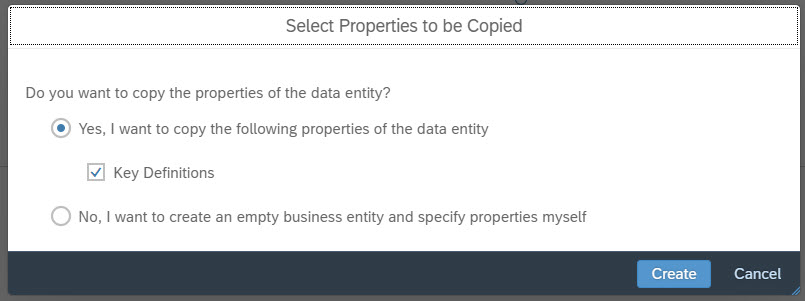
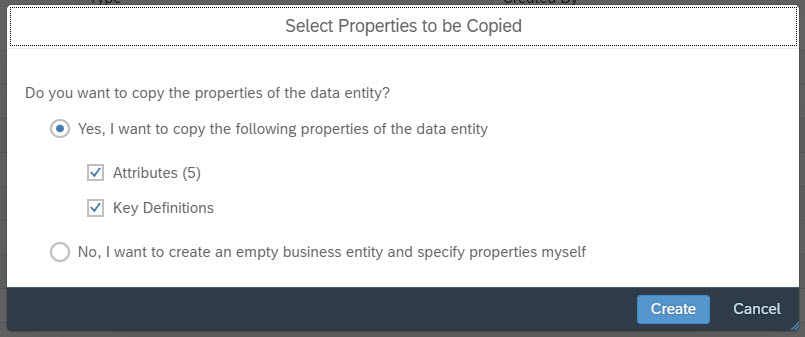
product dim + images

diff --git a/exercises/ex2/README.md b/exercises/ex2/README.md
@@ -57,7 +57,7 @@ Check the data preview panel that these records are indeed filtered out
 13. Now let's do final adjustments on the last node. For once, choose the final node and select column *Time*. Select the three dots to open its context menu. Choose the menu entry *Set as key* to make time a key column of the view. <br> ![set as key](images/set_key.jpg)
 14. Also turn *model* and *marke* (German for "brand") into key columns.
 
-15. In the properties panel of the final node, change drop-down for Semantic Usage to *Analytical Dataset*. This turns the current view into a multi-dimensional artefact that can be consumed directly by SAP Analytics Cloud. In order to fully configure the artefact, drag & drop columns *all*, *bev* and *cabriolet* to section *Measures*
+15. In the properties panel of the final node, change drop-down for Semantic Usage to *Analytical Dataset* and toggle *Expose for consumption* to ON. This turns the current view into a multi-dimensional artefact that can be consumed directly by SAP Analytics Cloud. In order to fully configure the artefact, drag & drop columns *all*, *bev* and *cabriolet* to section *Measures*
 <br> ![ADS settings](images/view_ads_settings.jpg)
 12. Choose *Save* in the action bar. <br> ![save button](images/save_button.jpg)
 13. In the prompt, set technical and business name to *V_GERMAN_CAR_REGISTRATION*. <br> ![Save as](images/Save_view.JPG)
@@ -80,7 +80,7 @@ The configuration of a *pairing column* ensures that the product ID that was ide
 
  4.	Define a first rule to create initial mappings.  
  Intelligent Lookup differentiates between exact match rules and fuzzy match rules. Exact match rules work roughly like a join and make exact comparisons of field names. Unlike standard joins, they can be graceful about upper-lower case spellings though (advanced setting).  
- Select the rule node and check its detail panel. Via drag & drop, make a mapping between the model column of the input view (car registrations) and the model column of lookup view (product master). Likewise, make a mapping between the column *marke* (German for *brand*) of input view and the column *brand* of lookup view.  
+ Select the rule node and check its detail panel. Via drag & drop, make a mapping between the model column of the input view (car registrations) and the Model_Name column of lookup view (product master). Likewise, make a mapping between the column *marke* (German for *brand*) of input view and the column *brand* of lookup view.  
  In section *Advanced Settings*, uncheck *Case-sensitive*.  
  Through this configuration, you are telling Intelligent Lookup to lookup the respective product master for each record of the car registration by doing a case-insensitive comparision of model and brand fields. In the best of cases, only a single lookup record matches this criterion. Then the match is made, stored & reused for every record in the car registration dataset with the same value of *ModelBrand*. That means also across e.g. car registrations for different points in time, for the same model & brand combination. If more than one lookup record is found, the system will classify this as multiple match. If no lookup record can be found with this rule, the system will classify the record as unmatched. 
  <br> ![Configure first IL rule](images/il_configure_exact_rule.jpg)
@@ -93,16 +93,20 @@ The configuration of a *pairing column* ensures that the product ID that was ide
 7. Once deployment is done (which can take 1-2 minutes), run the operator.
 <br> ![Run Intelligent Lookup](images/il_run.jpg)
 8. Once the run is successful (which again can take 30sec to one minute), start inspecting the results. 
-The first thing to realize is that out of all 373 records of the car registration view, 48% could be matched successfully with this rule while 52% couldn't.
+The first thing to realize is that out of all 321 records of the car registration view, 56% could be matched successfully with this rule while 44% couldn't.
 <br> ![IL run result](images/il_run_result_rule_1.jpg)
 9. To inspect the results in more detail, open the data preview of the rule and inspect the "buckets" for matched & unmatched records of the car registration dataset. Let's first inspect the matched records by opening the preview via the context pad of the rule and choosing the matched tab.   
 **Note: at the time of writing of the document, the matched bucket has an irregularly occuring display bug on the matched tab of the data preview. It is expected to be fixed in time for the Teched hands-on session**.
 When inspecting the results in detail, you realize that Intelligent Lookup did what your standard join would not be able to do: join over columns in a case-insensitive way. In the marked line, the rule identified POLESTAR/1 as being the same as Polestar/1 and thus "matched" the car registration of that model to the respective product master record (Product Id = 1055).
 <br> ![IL match results rule #1](images/il_rule1_matched.jpg)
-10. Now let's move on to the unmatched records, i.e. those car registration records where the rule couldn't quite figure out which product they belong to in the lookup view. Let's e.g. zoom in on the set of records for *ModelBrand* value A1 S1 AUDI. There is one record for registration date 2022-01-01, but there could be many dates in the same group. Why couldn't the rule find which product the records in the group belong to? When we filter the lookup table on brand = AUDI (just use the column header for this), we immediately see why: the record circuled in red has indeed brand = AUDI, but the model is *A1*. So when our rule says to find a lookup record by doing a case-insensitive comparison of model and brand, then none of the products in our product view does quite pass this test. 
+10. Now let's move on to the unmatched records, i.e. those car registration records where the rule couldn't quite figure out which product they belong to in the lookup view. Let's e.g. zoom in on the set of records for *ModelBrand* value A1 S1 AUDI.  
+We first set a filter on the product master by clicking on the column header and setting a filter value
+<br> ![set filter audi](images/il_rule1_unmatched_filter_audi.jpg)
+
+11. When we now look at the car registration data on the left and the filter product master for *AUDI* on the right, we directly realize what is wrong: the record circuled in red has indeed brand = AUDI, but our product master only knows model *A1*, but the car registrations happened on Audi's model A1 S1. Only domain experts can decide, if this indeed is the same product or not.  
 <br> ![IL unmatched records](images/il_run_result_rule_1_unmatched.jpg)
 
-11. Intelligent Lookup allows business users now to take a decision here. Mark both entries and click the *Match* button. This will tell the system that the two records are indeed meaning the same model and transfer the record to the *Matched* tab. 
+12. Intelligent Lookup allows business users now to take a decision here. Mark both entries and click the *Match* button. This will tell the system that the two records are indeed meaning the same model and transfer the record to the *Matched* tab. 
 <br> ![IL Manual Match Audi A1](images/il_manual_match_audi_a1.JPG)
 12. Since we don't want to take all these manual decisions one by one, we choose to simplify our life and automate the decision making. To that end, our best bet is to be a bit more relaxed about our matching rule logic and do a fuzzy comparison of the model & brand fields. Intelligent Lookup allows to do this by creating a follow-up rule. So let's add such a follow-up rule by clicking the first rule and selecting *Add rule for Unmatched Records* from the context pad.
 <br> ![IL add unmatched rule](images/il_add_rule_for_unmatched.jpg)
@@ -112,22 +116,26 @@ When inspecting the results in detail, you realize that Intelligent Lookup did w
 <br> ![Deploy IL](images/il_deploy.jpg)
 14. Once deployed, start a new run.
 <br> ![Run IL](images/il_run.jpg)
-15. Now let's inspect the results. The new rule finds another 12% of records that the rule deems worth reviewing (i.e. the fuzzy match metric came out at >80% and <100%), together with 3% multiple matches and still 37% unmatched records.
+15. Now let's inspect the results. The new rule takes those 44% of car registration records that the first rule couldn't make heads or tails of and triages them into distinct buckets: 
+- 0% were identifed with such certainty that no human intervention is required ("matched")
+- 13% of the records are matched such that that the rule is pretty sure, but suggests a human review (i.e. the fuzzy match metric came out at >80% and <100%)
+- 3% are "multiple matches" where more than one lookup record was found and a domain expert needs to make a final call 
+- 27% of the records can still not be matched .
 <br> ![IL run results rule 2](images/IL_run_result_rule_2.jpg)
 16. Let's use the data preview again to better understand what's happening here. Let's first turn to what Intelligent Lookup calls "Review" records. These are records where the fuzzy rule could indeed find single matches in the 80% to 100% fuzzy metric bracket, but since they are not 100%, a human user should review their validity.  
 If you look closely at the values, the rule could successfuly match MERCEDES/GLS to Mercedes Benz/GLS as well as SKODA/ENYAK to Škoda Auto/ENYAK. This is exactly what we were hoping for and we can thus select those lines and click *Confirm* to push them over to the *Matched* bucket.
 <br> ![IL fuzzy result review](images/il_fuzzy_rule_result_review.jpg)
-17. If we continue on to the multiple matches, we find a some interesting artefacts in the data. For example, MERCEDES/GLA fuzzily matches to all three product master records on the right and it's up to the business user to make a call which one it is. This is still manual work, but by triaging the irrelevant product master records from the highly relevant ones, the domain expert receives a huge support boost by the system.
+17. If we continue on to the multiple matches, we find a some interesting artefacts in the data. For example, MERCEDES/A-KLASSE fuzzily matches to all Mercedes-Benz models on the right. While Mercedes-Benz/A-KLASSE has the highest fuzzy score, the other models like B-KLASSE and C-KLASSE are fuzzily too similar for a machine intelligence to take a final decision. Users can select the respective entries and choose to manually take the decision. This is still manual work, but by triaging the irrelevant product master records from the highly relevant ones, the domain expert receives a huge support boost by the system.
 <br> ![IL multiple match result fuzzy](images/il_fuzzy_rule_result_multiple.jpg)
 18. Finally there are still some unmatched cases in the data, so let's turn to them now. Evidently, none of the lines could be matched through those two rules, but why is this? If we work ourselves through the data a bit we realize different root causes: 
-- Brand PORSCHE is not in our product master, because our fleet management service has no use of Porsche cars. As a result, the car registrations on PORSCHE cannot be matched.
-- Brand ALFA ROMEO does exist in our product master with model entries for GIULIA and STELVIO, but the car registrations only have a catch-all entry *All models* for them. We need to take a business decision what to match them to. We might e.g. consider adding a catch-all entry for unknown models or unknown makes in our product master and match the car registration to those, filter those registrations out or whatever. Again, this is a business decision on the side of the domain expert.
-- Similar reasons apply for the remaining entries: ALPINE again is no known brand, same for LYNK & CO, SUZUKI; for FIAT, HONDA and some of the other brands, they do exist in the product master, but car registration numbers are for *All models* so someone needs to decide how to proceed.  
+- Car registrations on many up-market brands like PORSCHE, JAGURA, CADILLAC, TESLA, FERRARI, LAMBORGHINI, MASERATI and LEXUS remain unmatched because there is simply no product master for them. How could there be, since our business is about fleet management, not luxury car rental. A domain expert needs to choose to either filter them out or to match them to a new "luxury model" that could be added to the product master. Again, this is entirely a business decision by a domain expert.
+- And then there are car registrations listed like MERCEDES/SONSTIGE or Volkswagen VW/SONSTIGE. "Sonstige" is German for "others", meaning that the data source couldn't quite assign them to any of **their** product master entries and thus subsumed them under a catch-all term "others". Again, obviously this does not allow for a matching to our product master for purely business & data reasons that subject matter experts need to decide how to deal with 
 <br> ![IL fuzzy unmatched results](images/il_fuzzy_rule_result_unmatched.jpg)
 19. Let's finally turn to the output of the Intelligent Lookup, so let's click on the right-most node in the canvas. In the details pane, you can apply some settings like include/exclude of records that are in review or unmatched status. We can set default values, when no *Product Id* could be identified (click the three dots to the right of column *Product Id*) in which case it would make sense to include an *Unmatched Record* column to distinguish default product id values from real ones that might happen to have the same value. 
-When we look at the data preview, we find the same 373 car registration records as in the input view *V_GERMAN_CAR_REGISTRATION*, but now we have "looked up" for which Product Id they are and added that as an own column. This additional information will come in handy when we do our analyses for those models  later in the procss.   
-Technically, the Intelligent Lookup is just a join of those two tables, but with a hidden helper table in the background to identify which Ids used in the car registration data set match to which ids of the product master. 
+When we look at the data preview, we find the same 321 car registration records as in the input view *V_GERMAN_CAR_REGISTRATION*, but now we have "looked up" for which *Product Id* they are and added that as an own column. This additional information will come in handy when we do our analyses for those models  later in the process.   
+Technically, the Intelligent Lookup is just a join of those two tables, but with a hidden helper table in the background to identify which Ids used in the car registration data set match to which ids of the product master. This means that even though it does quite some magic, it can still be consumed like any ordinary view for modelling or reporting. 
 <br> ![IL output node](images/il_output_view.jpg)
+
 ## Summary
 
 You've now identified for the car registration data which product master record they belong to. This will become important in the next exercise since now both the internal data (*RT_MY_COMPANY_SALES*) and the external data about car registrations now leverage the same product master. In the next exercise, we'll build a multi-fact model that leverages this shared product dimension, thus allowing both data sets to be analyzed along the same dimension for drill-down. 

diff --git a/exercises/ex3/README.md b/exercises/ex3/README.md
@@ -15,13 +15,13 @@ Car registration data and sales data both contain facts about the same entity, n
 <br> ![open bus builder](images/open_biz_builder.jpg)
 2. Click on “New Dimension”. Choose *V_MY_COMPANY_PRODUCT* as data entity and set its business name to *DIM_MY_COMPANY_PRODUCT*. The technical name will be auto-adjusted to *BE_DIM_MY_COMPANY_PRODUCT*. 
 <br> ![Wizard - Data Entity](images/dim_wizard_data_entity.jpg)
-3. Confirm take over the key definitions from the underlying view *V_MY_COMPANY_PRODUCT*. 
+3. Confirm take over all attributes & key definitions from the underlying view *V_MY_COMPANY_PRODUCT* and choose *Create*. 
 <br> ![Dim Wizard - take over props and keys](images/dim_wizard_copy_props.jpg)
-Find dimensionChoose the product view Dimension you created in the Data Builder as a Data entity. Choose your Business Name and Technical Name. Click “next”. <br> ![Test](/exercises/ex3/images/6.png) ![Test](/exercises/ex3/images/7.png)
-3. In the next dialog choose “yes” and copy the properties. Click ”next”.
-4. Choose the "Attributes" sheet. Delete the "id" column from your attributes by clicking the "x" behind the entry. <br> ![Test](/exercises/ex3/images/8.png) <br> Now you have created a dimension to use in the SAC. You can filter by all the attributes you have just choosen.
-5. Choose the "General" sheet and switch the status to "Ready to Use"
-6. Click "Save".
+4. This brings you to the main page of the product dimension dialog. The object is auto-saved, so there's nothing you need to do right now, but it would good if you checked the various tabs and its contents
+<br> ![Dim main page](images/dim_main_page.jpg) 
+
+5. Leave the dialog by choosing the cross sign in the header.
+<br> ![Close dim](images/dim_close.jpg)
 
 ## Exercise 3.2 - Create Analytical Dataset for Car Registration Data
 
